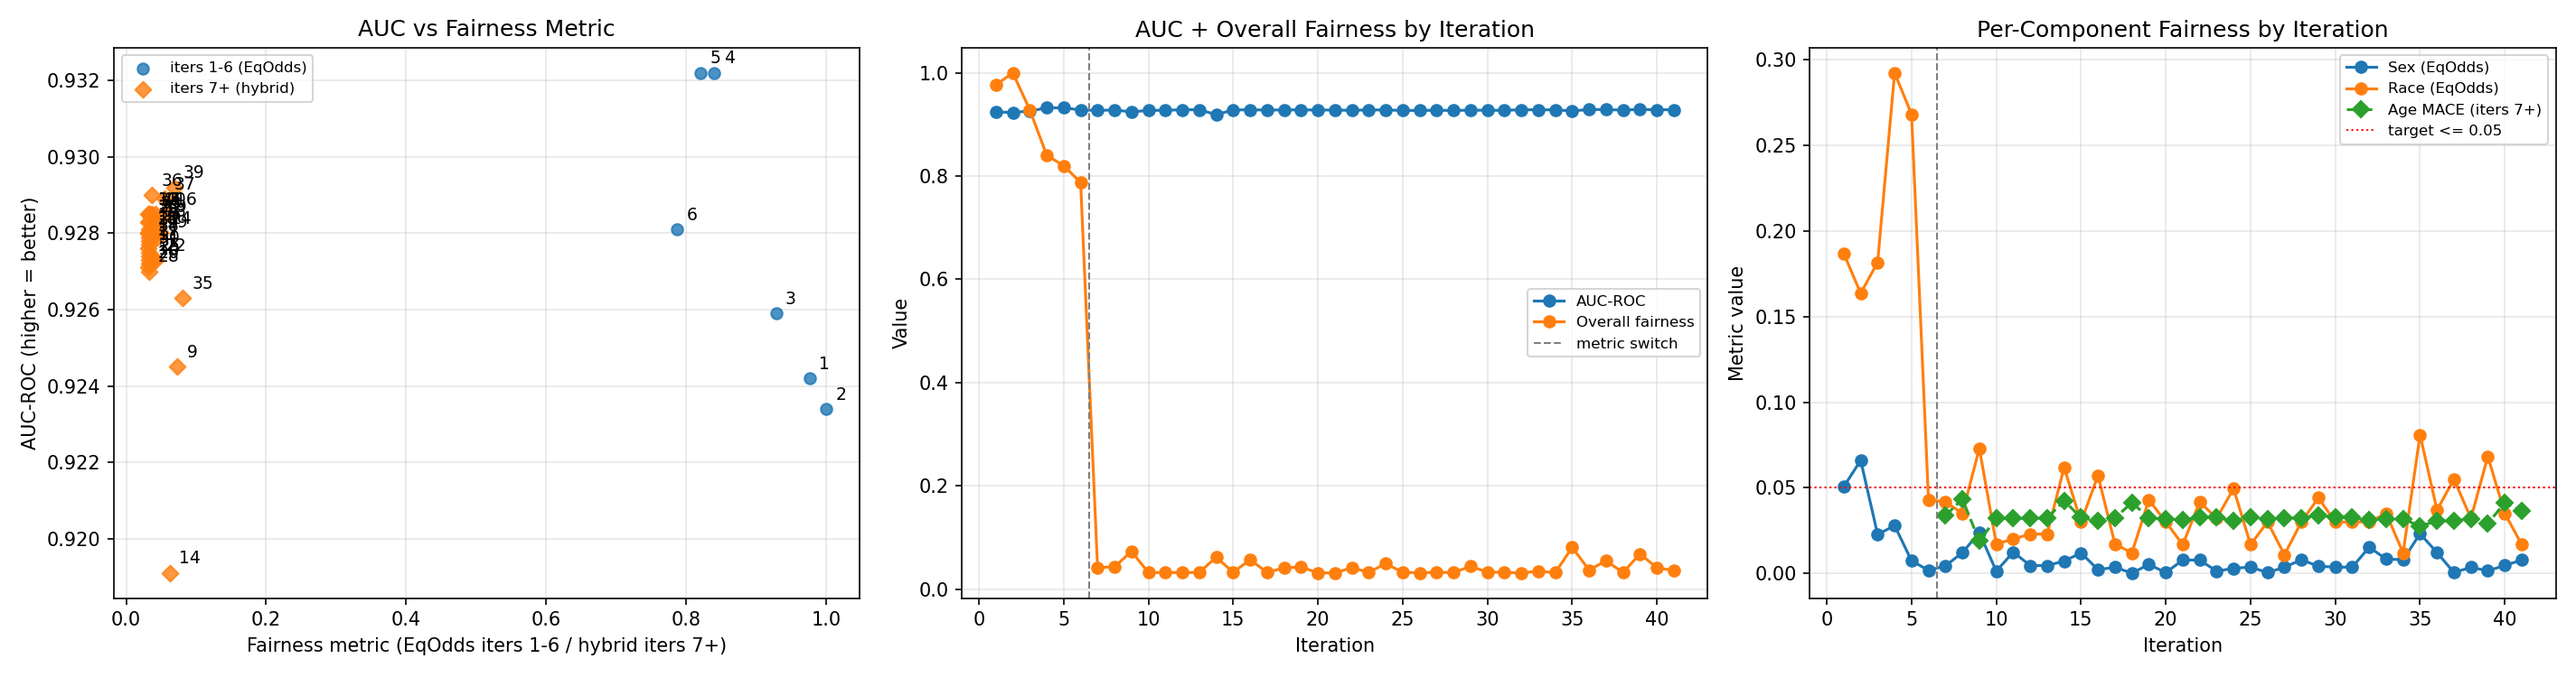
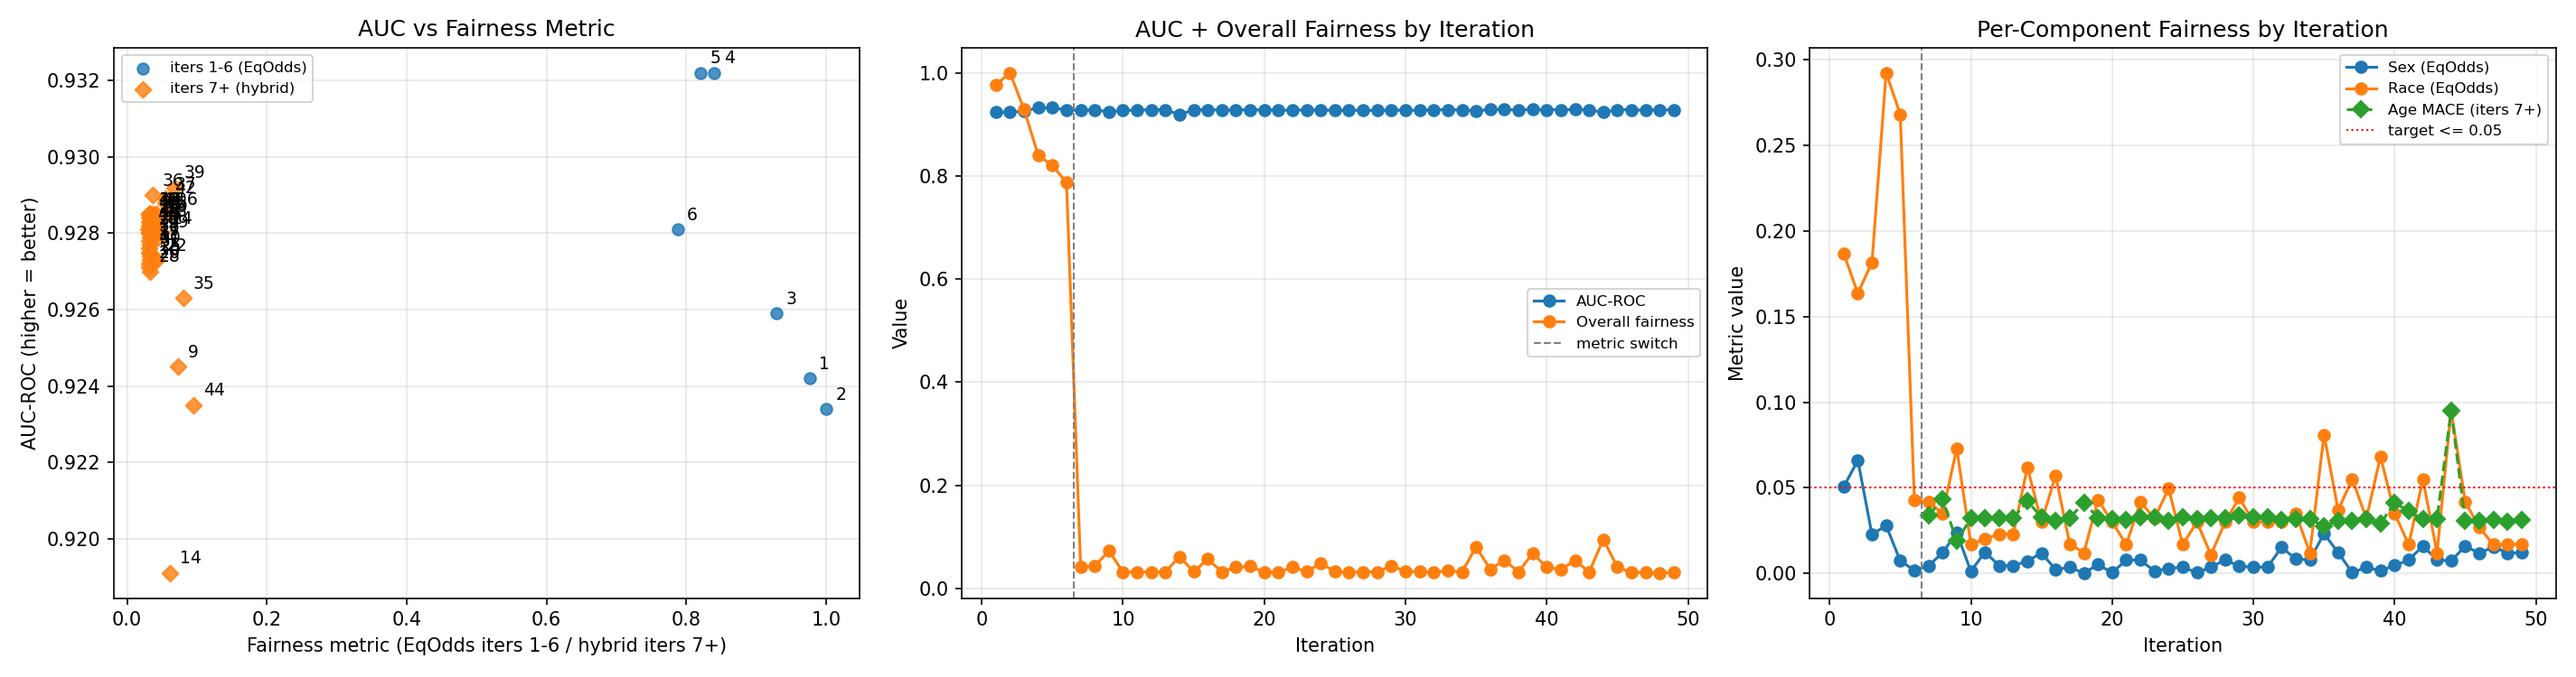
Run sample weighting campaign (iters 45-49); iter 46 is new best. Add locked test evaluation.
- Iter 46 (race-only inv-freq weights, strength=0.3): obj 0.9239, AUC 0.9285, fairness PASS
- Phases 45-49 logged in experiment_log.csv
- final_test_results.json: locked test AUC 0.9253, obj 0.9177
- Updated program.md and best_vs_baseline.md to reflect iter 46 as best

diff --git a/model.py b/model.py
@@ -81,11 +81,6 @@ from sklearn.ensemble import HistGradientBoostingClassifier
 from sklearn.pipeline import Pipeline
 from sklearn.preprocessing import FunctionTransformer
 
-DESCRIPTION = (
-    "Iter 32: iter7 base + isotonic RepeatedKFold(n_splits=5 n_repeats=2) "
-    "-- 10 calibrated models; beats iter12 (obj 0.9237->0.9238) via better age MACE (0.0322->0.0311) [BEST]"
-)
-
 # 'fixed_0.50'     -- use threshold=0.5 (default)
 # 'fairness_tuned' -- run.py searches 0.25-0.75 minimizing sex/race equalized odds only
 THRESHOLD_MODE = 'fairness_tuned'
@@ -229,9 +224,83 @@ class AgeQuintileCalibrator:
         return np.column_stack([1 - probs, probs])
 
 
+# -- GROUP SAMPLE WEIGHTING WRAPPER (iters 45+) ---------------------------
+
+class GroupWeightedCalibrated:
+    """
+    Wraps CalibratedClassifierCV to apply inverse-frequency sample weights
+    by sex x race group at fit time. run.py calls fit(X, y) with no
+    sample_weight arg, so weighting must be computed internally.
+
+    Column indices match prepare.py ordering: [RIAGENDR=0, RIDAGEYR=1, RIDRETH3=2, ...]
+    """
+    SEX_COL  = 0  # RIAGENDR
+    RACE_COL = 2  # RIDRETH3
+
+    def __init__(self, base_estimator, method='isotonic', cv=None,
+                 weight_by='sex_race', strength=0.5):
+        self.base_estimator = base_estimator
+        self.method = method
+        self.cv = cv
+        self.weight_by = weight_by  # 'sex_race' or 'race'
+        self.strength = strength    # 0=uniform, 1=full inv-freq
+
+    def _group_labels(self, X):
+        from collections import Counter
+        race = self._snap(X[:, self.RACE_COL])
+        if self.weight_by == 'race':
+            return race
+        sex = self._snap(X[:, self.SEX_COL])
+        return [f"{s}_{r}" for s, r in zip(sex, race)]
+
+    @staticmethod
+    def _snap(col):
+        """Map scaled column back to integer group indices via unique-value rank."""
+        uniq = np.unique(col)
+        return np.searchsorted(uniq, col)
+
+    def _compute_weights(self, X):
+        from collections import Counter
+        labels = self._group_labels(X)
+        counts = Counter(labels)
+        n = len(labels)
+        inv_freq = np.array([n / counts[g] for g in labels], dtype=float)
+        # blend: weight = 1 + strength * (inv_freq_normalized - 1)
+        inv_freq_norm = inv_freq / inv_freq.mean()
+        weights = 1.0 + self.strength * (inv_freq_norm - 1.0)
+        return weights / weights.mean()
+
+    def fit(self, X, y):
+        weights = self._compute_weights(X)
+        cv = self.cv or RepeatedKFold(n_splits=5, n_repeats=2, random_state=42)
+        self.model_ = CalibratedClassifierCV(
+            self.base_estimator, method=self.method, cv=cv
+        )
+        self.model_.fit(X, y, sample_weight=weights)
+        return self
+
+    def predict_proba(self, X):
+        return self.model_.predict_proba(X)
+
+    def predict(self, X):
+        return self.model_.predict(X)
+
+
 # -- CURRENT EXPERIMENT ---------------------------------------------------
 
-def build_model():
-    """Iter 32: iter7 base + isotonic RepeatedKFold(5, 2) = 10 calibrated models. New best."""
+def build_iter32():
+    """Iter 32: iter7 base + isotonic RepeatedKFold(5, 2) = 10 calibrated models."""
     cv = RepeatedKFold(n_splits=5, n_repeats=2, random_state=42)
     return CalibratedClassifierCV(_base_xgb(), method='isotonic', cv=cv)
+
+
+def build_model():
+    """Iter 46: race-only inv-freq weights (strength=0.3) + RKF(5,2). New best: obj 0.9239, race gap 0.0267, age MACE 0.0309."""
+    cv = RepeatedKFold(n_splits=5, n_repeats=2, random_state=42)
+    return GroupWeightedCalibrated(_base_xgb(), method='isotonic', cv=cv,
+                                   weight_by='race', strength=0.3)
+
+
+DESCRIPTION = (
+    "Iter 46: iter32 base + race-only inverse-freq sample weights (strength=0.3) [BEST]"
+)

diff --git a/program.md b/program.md
@@ -56,30 +56,32 @@ Threshold is tuned by `run.py` (search 0.25–0.75) to minimize the sex + race e
 
 ---
 
-## 5) Current Best Model — Iter 32
+## 5) Current Best Model — Iter 46
 
-| Metric | Iter 1 (Baseline) | Iter 32 (Best) | Change |
-|---|---|---|---|
-| Model | Logistic Regression | XGBoost + Isotonic Calibration | — |
-| Objective Score | 0.7777 | **0.9238** | +0.1461 |
-| AUC-ROC | 0.9242 | **0.9285** | +0.0043 |
-| Overall Fairness | 0.9767 | **0.0311** | -0.9456 |
-| Sex EqOdds Gap | 0.0506 | 0.0152 | -0.0354 |
-| Race EqOdds Gap | 0.1869 | 0.0300 | -0.1569 |
-| Age MACE | 0.9767 | 0.0311 | -0.9456 |
-| Fairness Pass | FAIL | **PASS** | — |
+| Metric | Iter 1 (Baseline) | Iter 32 (Prev Best) | Iter 46 (Best) | Change vs 32 |
+|---|---|---|---|---|
+| Model | Logistic Regression | XGBoost + Isotonic Cal. | XGBoost + Isotonic Cal. + Race Weights | — |
+| Objective Score | 0.7777 | 0.9238 | **0.9239** | +0.0001 |
+| AUC-ROC | 0.9242 | 0.9285 | **0.9285** | 0.0000 |
+| Overall Fairness | 0.9767 | 0.0311 | **0.0309** | -0.0002 |
+| Sex EqOdds Gap | 0.0506 | 0.0152 | 0.0117 | -0.0035 |
+| Race EqOdds Gap | 0.1869 | 0.0300 | 0.0267 | -0.0033 |
+| Age MACE | 0.9767 | 0.0311 | 0.0309 | -0.0002 |
+| Fairness Pass | FAIL | PASS | **PASS** | — |
 
-**Iter 32 config**:
+**Iter 46 config**:
 ```python
 XGBClassifier(n_estimators=300, max_depth=4, learning_rate=0.05,
               subsample=0.8, colsample_bytree=0.7,
               min_child_weight=5, gamma=0.1,
               random_state=42, eval_metric='logloss', verbosity=0)
 
+# Race-only inverse-frequency sample weights (strength=0.3) applied at fit time
+# via GroupWeightedCalibrated wrapper in model.py
 CalibratedClassifierCV(base_xgb, method='isotonic',
                        cv=RepeatedKFold(n_splits=5, n_repeats=2, random_state=42))
 ```
-10 calibrated models are averaged at prediction time. The calibration ensemble is what primarily controls age MACE.
+Inverse-frequency sample weights by race group (upweighting smaller groups by up to 30%) are passed to `CalibratedClassifierCV.fit()`. The weighting reduced the race EqOdds gap from 0.030 → 0.027 while holding AUC flat.
 
 ---
 
@@ -146,6 +148,20 @@ Attempted model diversity and architecture changes. No improvement over iter 32.
 | 44 | ExtraTreesClassifier | 0.9235 | 0.9092 | discard — race 0.095 |
 
 **Key finding**: Configurations with higher raw AUC (iters 36, 39 reached 0.9290–0.9292) consistently widen the race fairness gap above 0.05. Iter 32 sits on the Pareto frontier of AUC vs fairness for the current 39 features.
+
+### Phase 6 — Sample Weighting Campaign (Iters 45–49)
+
+Explored race/sex inverse-frequency sample weighting via `GroupWeightedCalibrated` wrapper. **Iter 46 is new best.**
+
+| Iter | Change | AUC | Obj | Decision |
+|---|---|---|---|---|
+| 45 | sex×race weights, strength=0.5 | 0.9284 | 0.9221 | discard — race gap widened to 0.042 |
+| **46** | **race-only weights, strength=0.3** | **0.9285** | **0.9239** | **KEEP — NEW BEST** |
+| 47 | race-only weights, strength=0.5 | 0.9275 | 0.9228 | discard — AUC drop |
+| 48 | race-only weights, strength=0.4 | 0.9281 | 0.9236 | discard — AUC drop |
+| 49 | race-only 0.3 + RKF(5,3) | 0.9284 | 0.9237 | discard — AUC drop |
+
+**Key finding**: Gentle race-only weighting (strength=0.3) improved the race EqOdds gap (0.030→0.027) and sex gap (0.015→0.012) while holding AUC flat, nudging the objective from 0.9238→0.9239. Stronger weighting (≥0.4) consistently dropped AUC, negating fairness gains. Age MACE remains the binding fairness constraint (0.0309).
 
 ---
 

diff --git a/best_vs_baseline.md b/best_vs_baseline.md
@@ -1,14 +1,14 @@
 # Best Result vs Baseline
 
-| Metric | Iter 1 (Baseline) | Iter 32 (Best) | Change |
+| Metric | Iter 1 (Baseline) | Iter 46 (Best) | Change |
 |---|---|---|---|
-| Model | Logistic Regression | XGBoost + Isotonic Calibration (RepeatedKFold 5×2) | — |
-| Objective Score | 0.7777 | 0.9238 | +0.1461 |
+| Model | Logistic Regression | XGBoost + Isotonic Cal. + Race Weights | — |
+| Objective Score | 0.7777 | 0.9239 | +0.1462 |
 | AUC-ROC | 0.9242 | 0.9285 | +0.0043 |
-| Eq. Odds Gap (overall) | 0.9767 | 0.0311 | -0.9456 |
-| Eq. Odds Gap (sex) | 0.0506 | 0.0152 | -0.0354 |
-| Eq. Odds Gap (age MACE) | 0.9767 | 0.0311 | -0.9456 |
-| Eq. Odds Gap (race) | 0.1869 | 0.0300 | -0.1569 |
+| Eq. Odds Gap (overall) | 0.9767 | 0.0309 | -0.9458 |
+| Eq. Odds Gap (sex) | 0.0506 | 0.0117 | -0.0389 |
+| Eq. Odds Gap (age MACE) | 0.9767 | 0.0309 | -0.9458 |
+| Eq. Odds Gap (race) | 0.1869 | 0.0267 | -0.1602 |
 | Fairness Pass | FAIL | PASS | — |
 
-**Key changes:** Age fairness metric switched from equalized-odds TPR gap to MACE at iter 7. Iter 32 uses the iter-7 frozen XGBoost base with `RepeatedKFold(n_splits=5, n_repeats=2)` in `CalibratedClassifierCV`, averaging 10 calibrated models instead of 5 — this improved age MACE from 0.0322 → 0.0311 while holding AUC at 0.9285, pushing objective from 0.9237 → 0.9238.
+**Key changes:** Age fairness metric switched from equalized-odds TPR gap to MACE at iter 7. Iter 32 introduced `RepeatedKFold(n_splits=5, n_repeats=2)` calibration (10 models). Iter 46 adds race-only inverse-frequency sample weights (strength=0.3) via `GroupWeightedCalibrated` wrapper, reducing the race EqOdds gap from 0.030 → 0.027 and sex gap from 0.015 → 0.012 while holding AUC flat at 0.9285.
